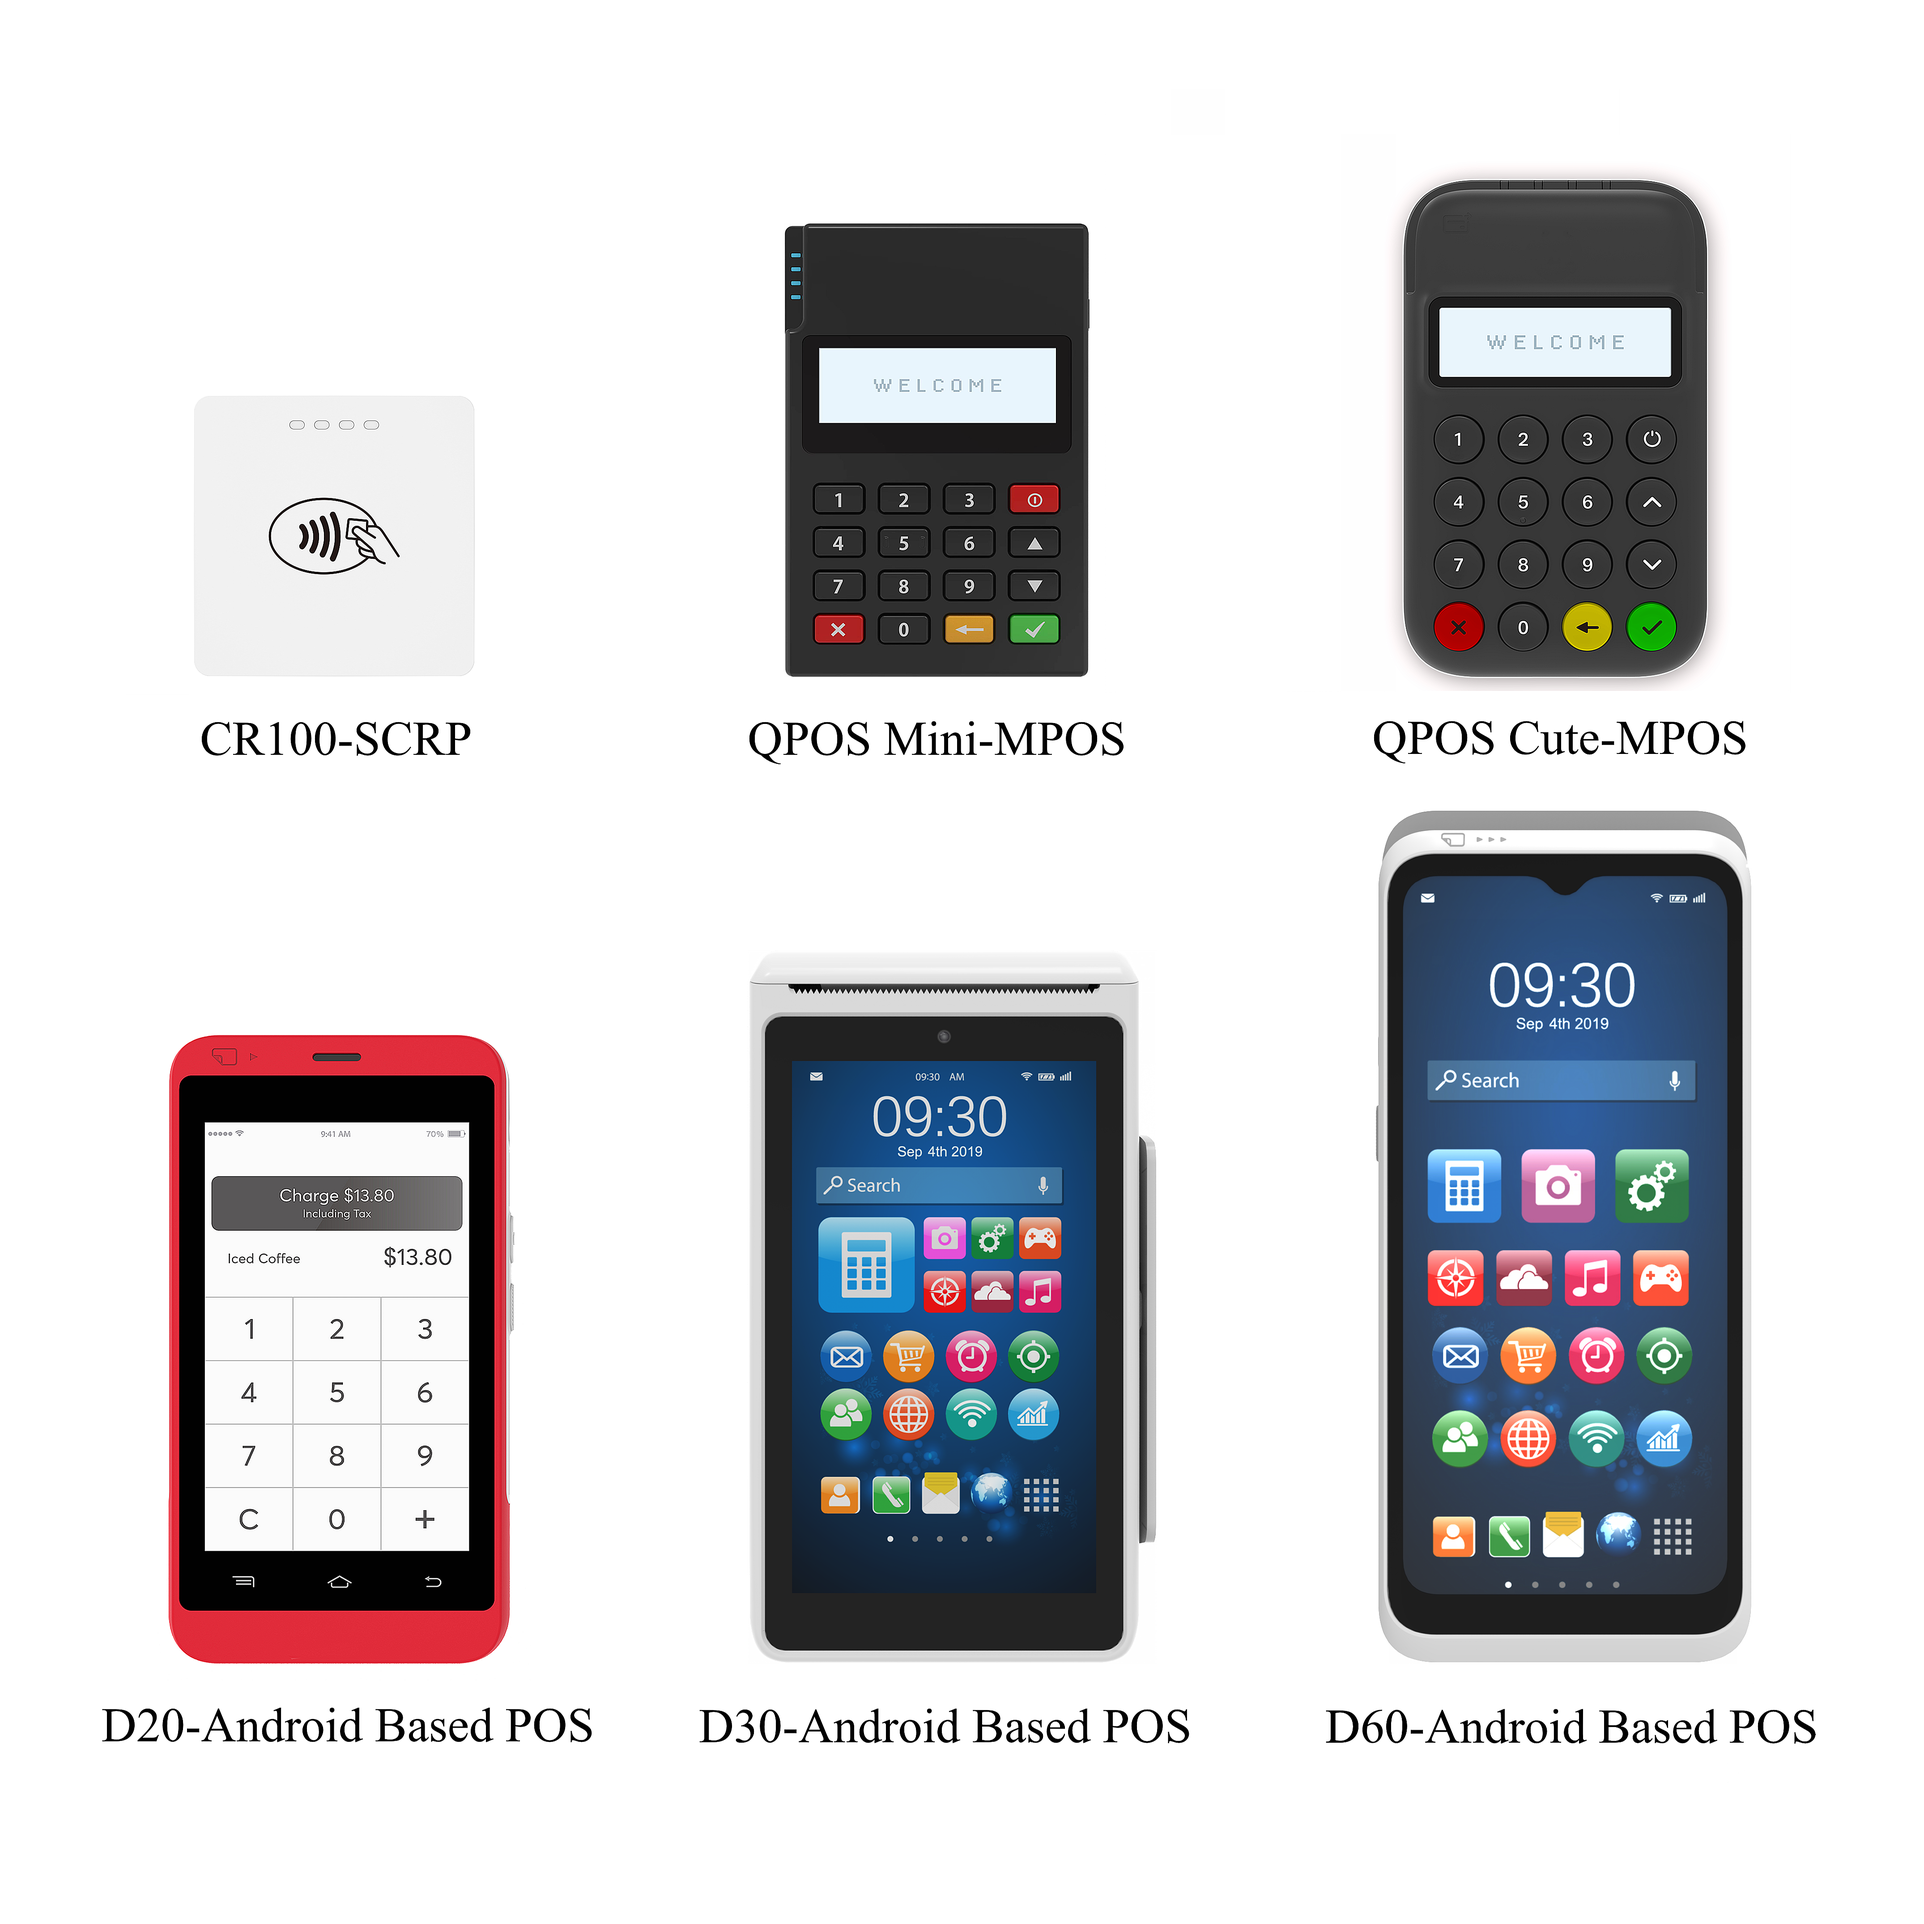
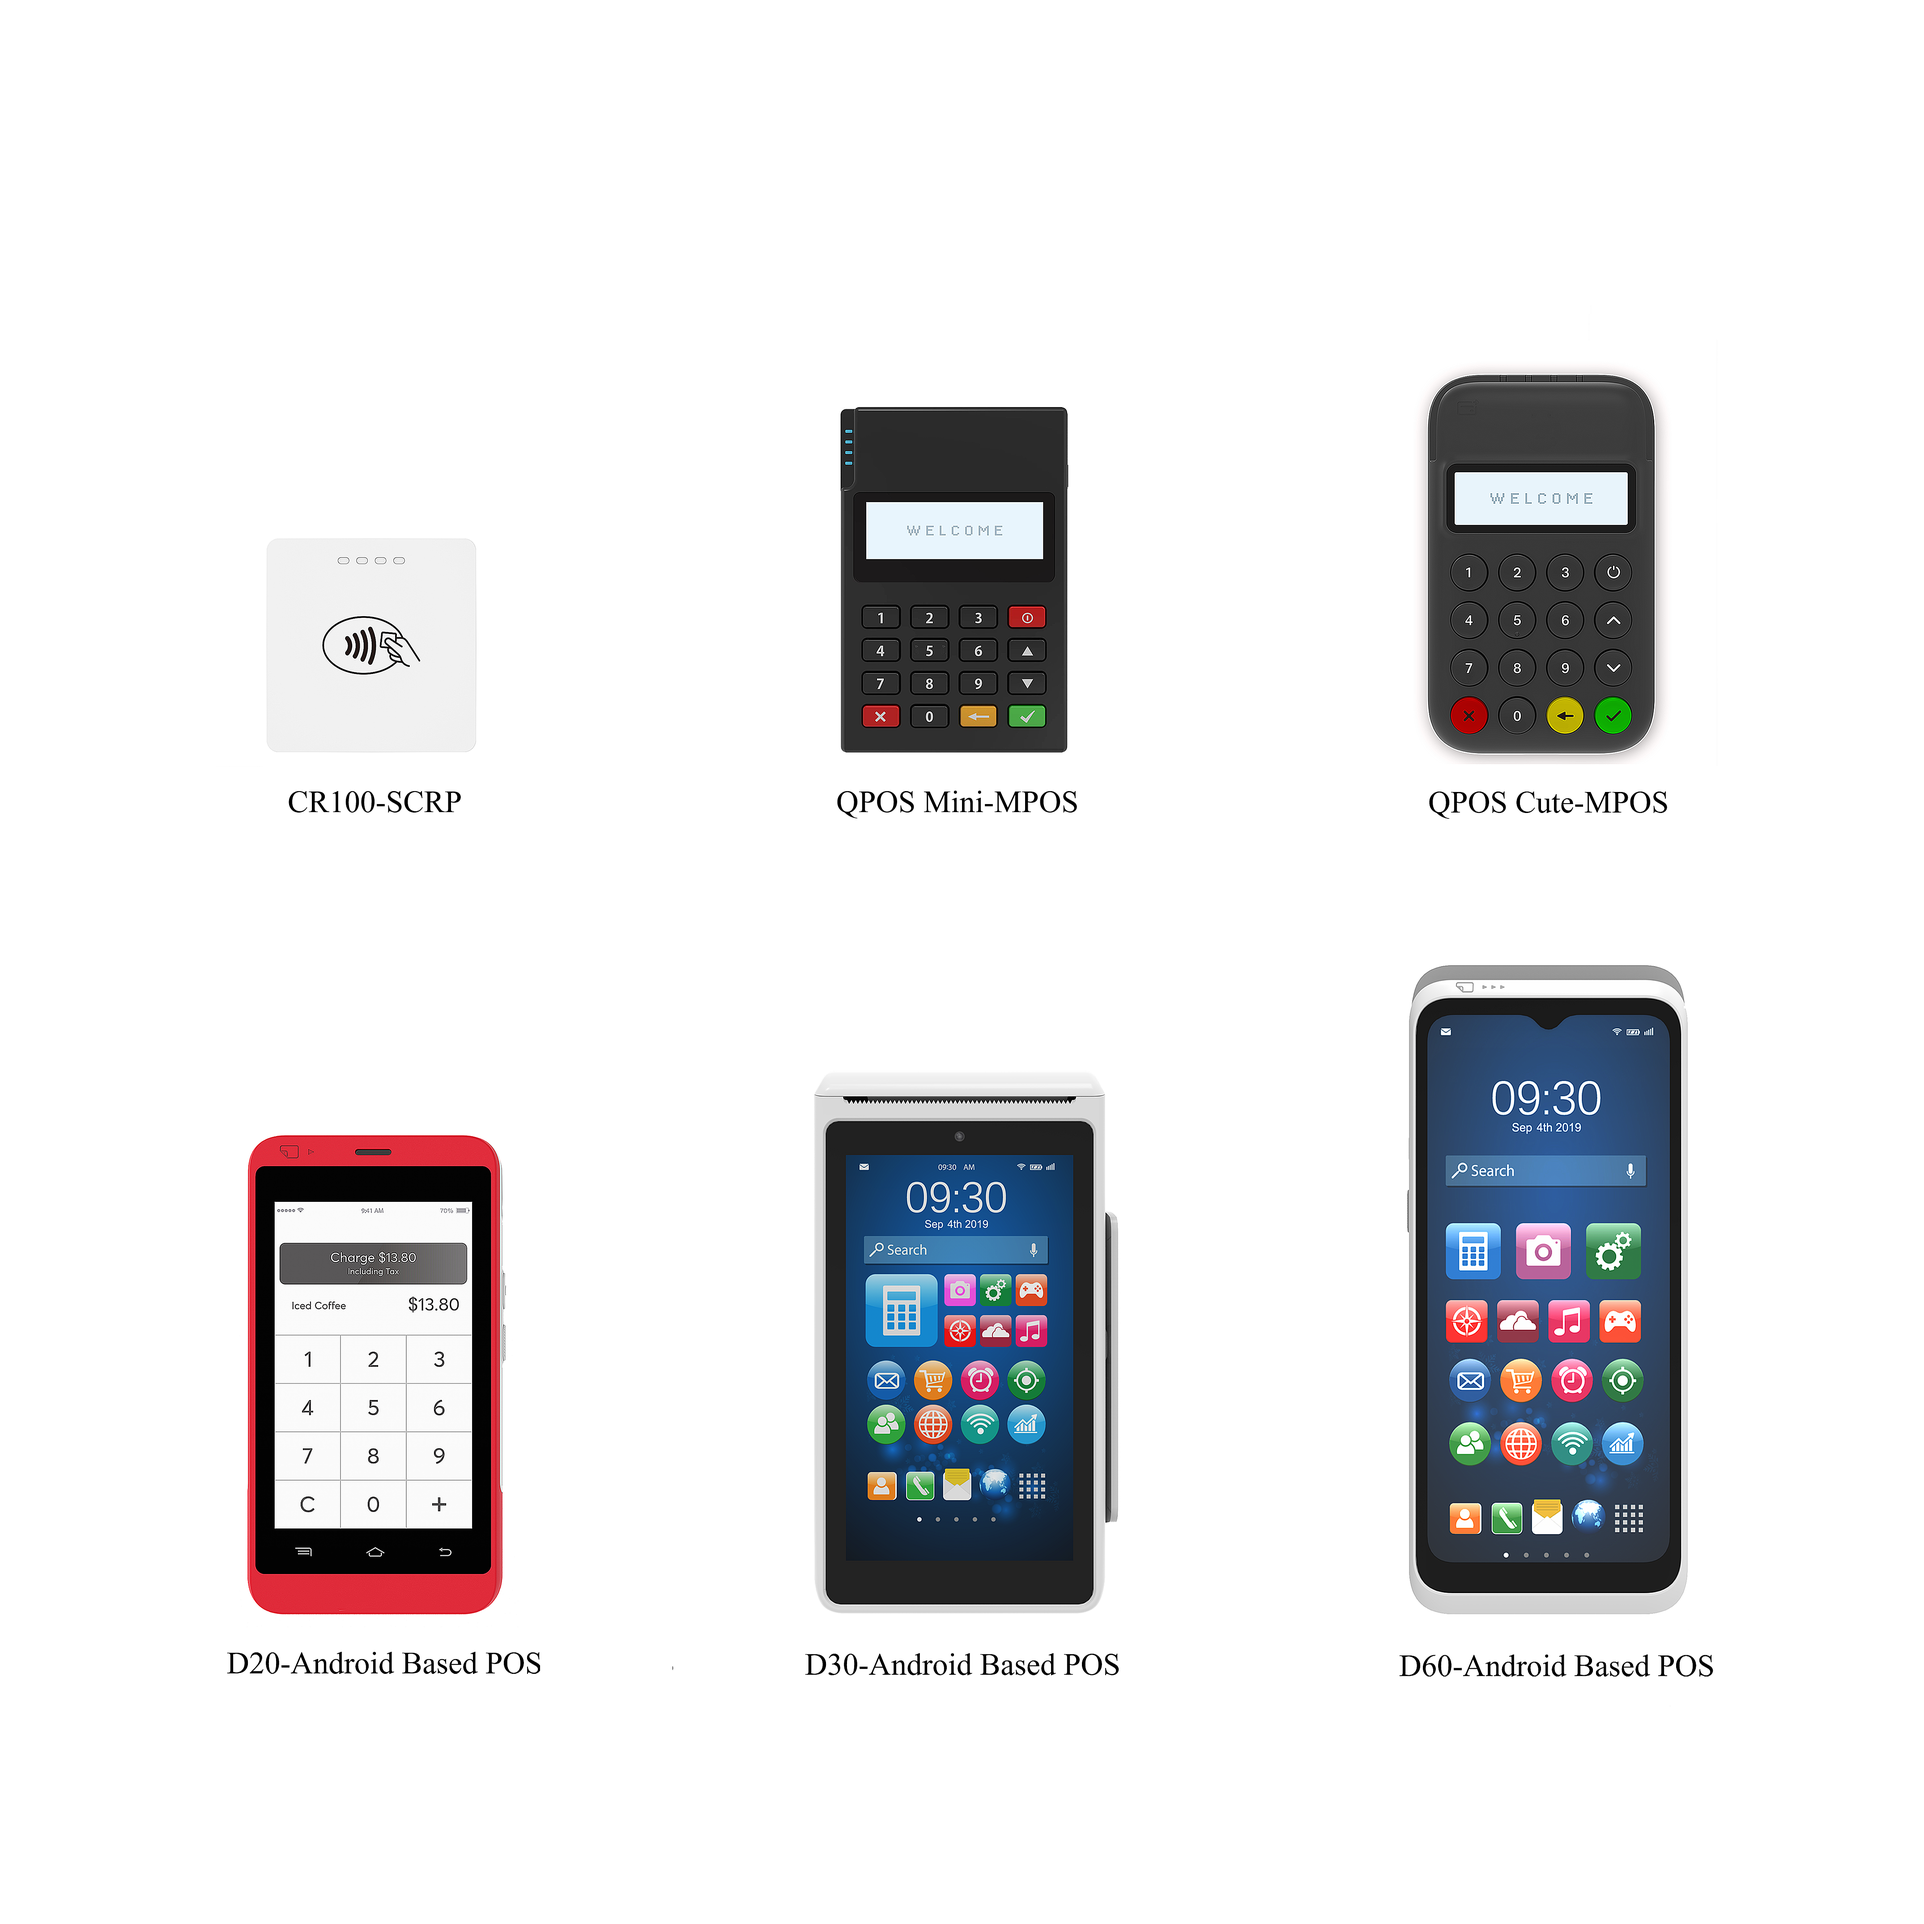
Update 2 files
- /docs/products/productsGallery.html
- /docs/products/products.png

diff --git a/docs/products/productsGallery.html b/docs/products/productsGallery.html
@@ -9,7 +9,7 @@
       <h2>Products Gallery</h2>
     </div>
     <div style="text-align:center">
-      <img src="./拼图4.png" alt="product" width="800" height="800">
+      <img src="./products.png" alt="product" width="800" height="800">
     </div>
   </body>
 </html>
